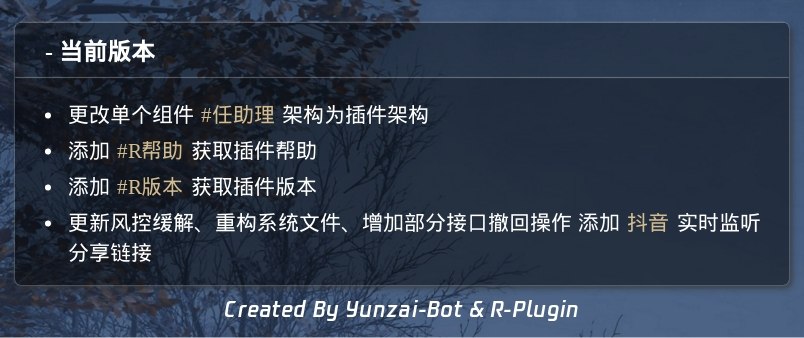
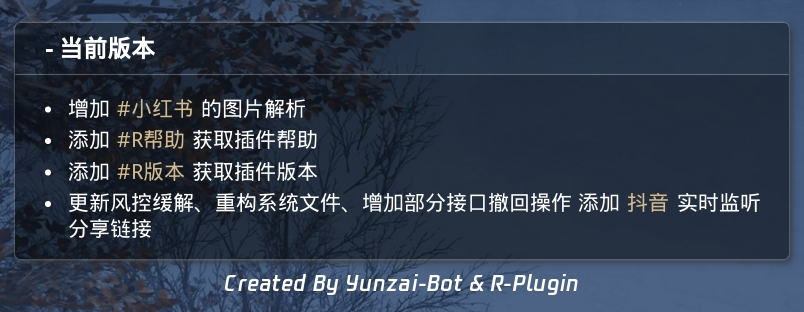
✨ feat: 新增小红书解析

diff --git a/apps/tools.js b/apps/tools.js
@@ -441,19 +441,32 @@ export class tools extends plugin {
             const reg = /<img(.*)src="\/\/ci\.xiaohongshu\.com(.*?)"/g
             let res = '';
 
-            let images = [];
-            while (res = reg.exec(resp.data)) {
-                console.log(`https://ci.xiaohongshu.com${res[2]}`)
-                images.push({
-                    message: segment.image(`https://ci.xiaohongshu.com${res[2]}`),
-                    nickname: e.sender.card || e.user_id,
-                    user_id: e.user_id
-                })
+            const downloadPath = `${ this.defaultPath }${ this.e.group_id || this.e.user_id }`;
+            // 创建文件夹（如果没有过这个群）
+            if (!fs.existsSync(downloadPath)) {
+                mkdirsSync(downloadPath);
             }
-            if (images.length > 0) {
-                e.reply(Bot.makeForwardMsg(images))
-            } else {
-                e.reply("解析失败，重新解析下");
+            while (res = reg.exec(resp.data)) {
+                const addr = `https://ci.xiaohongshu.com${res[2]}`
+                axios.get(addr, {
+                    headers: {
+                        "User-Agent":
+                            "Mozilla/5.0 (Linux; Android 5.0; SM-G900P Build/LRX21T) AppleWebKit/537.36 (KHTML, like Gecko) Chrome/70.0.3538.25 Mobile Safari/537.36",
+                    },
+                    responseType: "stream",
+                }).then(resp => {
+                    const filepath = `${downloadPath}/${/com\/(.*)\?/.exec(addr)[1]}.jpg`
+                    const writer = fs.createWriteStream(filepath);
+                    resp.data.pipe(writer)
+                    return new Promise((resolve, reject) => {
+                        writer.on('finish', () => resolve(filepath));
+                        writer.on('error', reject);
+                    });
+                })
+                    .then( filepath => {
+                        e.reply(segment.image(fs.readFileSync(filepath)))
+                        fs.unlinkSync(filepath)
+                    })
             }
         })
 

diff --git a/README.md b/README.md
@@ -9,7 +9,7 @@
     个人团队用的<a href="https://gitee.com/Le-niao/Yunzai-Bot" target="_blank">Yunzai-Bot</a>插件，插件的各种业务来源于周围人
 <img src="https://cdn.jsdelivr.net/gh/xianxincoder/xianxincoder/assets/github-contribution-grid-snake.svg">
 </div>
-
+![](../../../../Downloads/iShot_2023-02-10_15.54.06.png)
 ## 🗃文件架构
 apps -- 业务核心
 
@@ -27,6 +27,7 @@ index -- 主入口
 ![help](./img/example.png)
 ![help](./img/example2.png)
 ![help](./img/example3.png)
+![help](./img/example4.png)
 
 ##  🤺BUG及时交流群
 ![help](./img/community.jpg)
